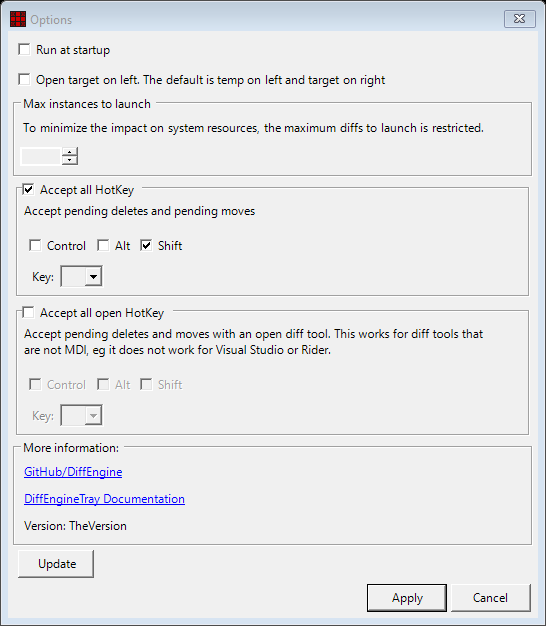
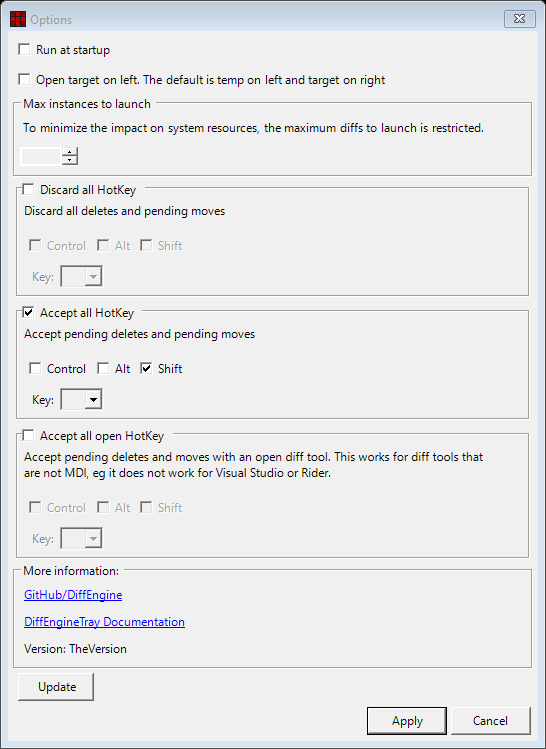
.

Changed region(s): [[0.0, 0.0, 1.0, 0.9409], [0.0311, 0.9409, 0.9963, 1.0], [0.9652, 0.2428, 0.9963, 0.2732]]

diff --git a/src/DiffEngineTray/Settings/OptionsForm.Designer.cs b/src/DiffEngineTray/Settings/OptionsForm.Designer.cs
@@ -8,6 +8,7 @@
         {
             components.Dispose();
         }
+
         base.Dispose(disposing);
     }
 
@@ -17,6 +18,7 @@
             this.cancel = new System.Windows.Forms.Button();
             this.save = new System.Windows.Forms.Button();
             this.acceptAllHotKey = new HotKeyControl();
+            this.discardAllHotKey = new HotKeyControl();
             this.startupCheckBox = new System.Windows.Forms.CheckBox();
             this.groupBox1 = new System.Windows.Forms.GroupBox();
             this.versionLabel = new System.Windows.Forms.Label();
@@ -43,17 +45,17 @@
             this.bottomPanel.Controls.Add(this.save);
             this.bottomPanel.Dock = System.Windows.Forms.DockStyle.Bottom;
             this.bottomPanel.FlowDirection = System.Windows.Forms.FlowDirection.RightToLeft;
-            this.bottomPanel.Location = new System.Drawing.Point(5, 508);
+            this.bottomPanel.Location = new System.Drawing.Point(5, 639);
             this.bottomPanel.Margin = new System.Windows.Forms.Padding(2);
             this.bottomPanel.Name = "bottomPanel";
-            this.bottomPanel.Size = new System.Drawing.Size(507, 29);
+            this.bottomPanel.Size = new System.Drawing.Size(520, 29);
             this.bottomPanel.TabIndex = 1;
             // 
             // cancel
             // 
             this.cancel.AutoSize = true;
             this.cancel.DialogResult = System.Windows.Forms.DialogResult.Cancel;
-            this.cancel.Location = new System.Drawing.Point(425, 2);
+            this.cancel.Location = new System.Drawing.Point(438, 2);
             this.cancel.Margin = new System.Windows.Forms.Padding(2);
             this.cancel.Name = "cancel";
             this.cancel.RightToLeft = System.Windows.Forms.RightToLeft.Yes;
@@ -65,7 +67,7 @@
             // save
             // 
             this.save.AutoSize = true;
-            this.save.Location = new System.Drawing.Point(341, 2);
+            this.save.Location = new System.Drawing.Point(354, 2);
             this.save.Margin = new System.Windows.Forms.Padding(2);
             this.save.Name = "save";
             this.save.Size = new System.Drawing.Size(80, 25);
@@ -81,13 +83,28 @@
             this.acceptAllHotKey.Help = "Accept pending deletes and pending moves";
             this.acceptAllHotKey.HotKey = null;
             this.acceptAllHotKey.Label = "Accept all HotKey";
-            this.acceptAllHotKey.Location = new System.Drawing.Point(5, 140);
+            this.acceptAllHotKey.Location = new System.Drawing.Point(5, 254);
             this.acceptAllHotKey.Margin = new System.Windows.Forms.Padding(2);
             this.acceptAllHotKey.Name = "acceptAllHotKey";
             this.acceptAllHotKey.Padding = new System.Windows.Forms.Padding(3);
-            this.acceptAllHotKey.Size = new System.Drawing.Size(507, 114);
+            this.acceptAllHotKey.Size = new System.Drawing.Size(520, 114);
             this.acceptAllHotKey.TabIndex = 2;
             this.acceptAllHotKey.TabStop = false;
+            // 
+            // discardAllHotKey
+            // 
+            this.discardAllHotKey.AutoSize = true;
+            this.discardAllHotKey.Dock = System.Windows.Forms.DockStyle.Top;
+            this.discardAllHotKey.Help = "Discard all deletes and pending moves";
+            this.discardAllHotKey.HotKey = null;
+            this.discardAllHotKey.Label = "Discard all HotKey";
+            this.discardAllHotKey.Location = new System.Drawing.Point(5, 140);
+            this.discardAllHotKey.Margin = new System.Windows.Forms.Padding(2);
+            this.discardAllHotKey.Name = "discardAllHotKey";
+            this.discardAllHotKey.Padding = new System.Windows.Forms.Padding(3);
+            this.discardAllHotKey.Size = new System.Drawing.Size(520, 114);
+            this.discardAllHotKey.TabIndex = 2;
+            this.discardAllHotKey.TabStop = false;
             // 
             // startupCheckBox
             // 
@@ -97,7 +114,7 @@
             this.startupCheckBox.Margin = new System.Windows.Forms.Padding(2);
             this.startupCheckBox.Name = "startupCheckBox";
             this.startupCheckBox.Padding = new System.Windows.Forms.Padding(5, 4, 5, 4);
-            this.startupCheckBox.Size = new System.Drawing.Size(507, 27);
+            this.startupCheckBox.Size = new System.Drawing.Size(520, 27);
             this.startupCheckBox.TabIndex = 3;
             this.startupCheckBox.Text = "Run at startup";
             this.startupCheckBox.UseVisualStyleBackColor = true;
@@ -109,10 +126,10 @@
             this.groupBox1.Controls.Add(this.trayDocsLink);
             this.groupBox1.Controls.Add(this.diffEngineLink);
             this.groupBox1.Dock = System.Windows.Forms.DockStyle.Top;
-            this.groupBox1.Location = new System.Drawing.Point(5, 398);
+            this.groupBox1.Location = new System.Drawing.Point(5, 497);
             this.groupBox1.Name = "groupBox1";
             this.groupBox1.Padding = new System.Windows.Forms.Padding(6, 5, 6, 5);
-            this.groupBox1.Size = new System.Drawing.Size(507, 89);
+            this.groupBox1.Size = new System.Drawing.Size(520, 89);
             this.groupBox1.TabIndex = 5;
             this.groupBox1.TabStop = false;
             this.groupBox1.Text = "More information:";
@@ -162,11 +179,11 @@
     "s that are not MDI, eg it does not work for Visual Studio or Rider.";
             this.acceptOpenHotKey.HotKey = null;
             this.acceptOpenHotKey.Label = "Accept all open HotKey";
-            this.acceptOpenHotKey.Location = new System.Drawing.Point(5, 254);
+            this.acceptOpenHotKey.Location = new System.Drawing.Point(5, 368);
             this.acceptOpenHotKey.Margin = new System.Windows.Forms.Padding(2);
             this.acceptOpenHotKey.Name = "acceptOpenHotKey";
             this.acceptOpenHotKey.Padding = new System.Windows.Forms.Padding(3);
-            this.acceptOpenHotKey.Size = new System.Drawing.Size(507, 144);
+            this.acceptOpenHotKey.Size = new System.Drawing.Size(520, 129);
             this.acceptOpenHotKey.TabIndex = 6;
             this.acceptOpenHotKey.TabStop = false;
             // 
@@ -175,11 +192,11 @@
             this.flowLayoutPanel1.AutoSize = true;
             this.flowLayoutPanel1.Controls.Add(this.updateButton);
             this.flowLayoutPanel1.Dock = System.Windows.Forms.DockStyle.Top;
-            this.flowLayoutPanel1.Location = new System.Drawing.Point(5, 487);
+            this.flowLayoutPanel1.Location = new System.Drawing.Point(5, 586);
             this.flowLayoutPanel1.Margin = new System.Windows.Forms.Padding(2);
             this.flowLayoutPanel1.Name = "flowLayoutPanel1";
             this.flowLayoutPanel1.Padding = new System.Windows.Forms.Padding(3, 2, 3, 2);
-            this.flowLayoutPanel1.Size = new System.Drawing.Size(507, 33);
+            this.flowLayoutPanel1.Size = new System.Drawing.Size(520, 33);
             this.flowLayoutPanel1.TabIndex = 7;
             // 
             // updateButton
@@ -202,7 +219,7 @@
             this.targetOnLeftCheckBox.Margin = new System.Windows.Forms.Padding(2);
             this.targetOnLeftCheckBox.Name = "targetOnLeftCheckBox";
             this.targetOnLeftCheckBox.Padding = new System.Windows.Forms.Padding(5, 4, 5, 4);
-            this.targetOnLeftCheckBox.Size = new System.Drawing.Size(507, 27);
+            this.targetOnLeftCheckBox.Size = new System.Drawing.Size(520, 27);
             this.targetOnLeftCheckBox.TabIndex = 8;
             this.targetOnLeftCheckBox.Text = "Open target on left. The default is temp on left and target on right";
             this.targetOnLeftCheckBox.UseVisualStyleBackColor = true;
@@ -215,7 +232,7 @@
             this.maxInstancesGroupBox.Location = new System.Drawing.Point(5, 58);
             this.maxInstancesGroupBox.Name = "maxInstancesGroupBox";
             this.maxInstancesGroupBox.Padding = new System.Windows.Forms.Padding(5);
-            this.maxInstancesGroupBox.Size = new System.Drawing.Size(507, 82);
+            this.maxInstancesGroupBox.Size = new System.Drawing.Size(520, 82);
             this.maxInstancesGroupBox.TabIndex = 9;
             this.maxInstancesGroupBox.TabStop = false;
             this.maxInstancesGroupBox.Text = "Max instances to launch";
@@ -258,12 +275,13 @@
             this.AutoScaleMode = System.Windows.Forms.AutoScaleMode.Font;
             this.AutoSize = true;
             this.CancelButton = this.cancel;
-            this.ClientSize = new System.Drawing.Size(530, 541);
+            this.ClientSize = new System.Drawing.Size(530, 672);
             this.Controls.Add(this.flowLayoutPanel1);
             this.Controls.Add(this.groupBox1);
             this.Controls.Add(this.bottomPanel);
             this.Controls.Add(this.acceptOpenHotKey);
             this.Controls.Add(this.acceptAllHotKey);
+            this.Controls.Add(this.discardAllHotKey);
             this.Controls.Add(this.maxInstancesGroupBox);
             this.Controls.Add(this.targetOnLeftCheckBox);
             this.Controls.Add(this.startupCheckBox);
@@ -289,10 +307,12 @@
             this.PerformLayout();
 
     }
+
     private System.Windows.Forms.FlowLayoutPanel bottomPanel;
     private System.Windows.Forms.Button cancel;
     private System.Windows.Forms.Button save;
-    private HotKeyControl acceptAllHotKey;
+    private HotKeyControl acceptAllHotKey; 
+    private HotKeyControl discardAllHotKey;
     private System.Windows.Forms.CheckBox startupCheckBox;
     private System.Windows.Forms.GroupBox groupBox1;
     private System.Windows.Forms.LinkLabel diffEngineLink;

diff --git a/src/DiffEngineTray/Settings/OptionsForm.cs b/src/DiffEngineTray/Settings/OptionsForm.cs
@@ -18,6 +18,7 @@ public partial class OptionsForm :
         this.trySave = trySave;
         acceptAllHotKey.HotKey = settings.AcceptAllHotKey;
         acceptOpenHotKey.HotKey = settings.AcceptOpenHotKey;
+        discardAllHotKey.HotKey = settings.DiscardAllHotKey;
         startupCheckBox.Checked = settings.RunAtStartup;
         targetOnLeftCheckBox.Checked = settings.TargetOnLeft;
         maxInstancesNumericUpDown.Value = settings.MaxInstancesToLaunch;
@@ -30,6 +31,7 @@ public partial class OptionsForm :
             TargetOnLeft = targetOnLeftCheckBox.Checked,
             RunAtStartup = startupCheckBox.Checked,
             AcceptAllHotKey = acceptAllHotKey.HotKey,
+            DiscardAllHotKey = discardAllHotKey.HotKey,
             AcceptOpenHotKey = acceptOpenHotKey.HotKey,
             MaxInstancesToLaunch = (int)maxInstancesNumericUpDown.Value
         };

diff --git a/src/DiffEngineTray/Program.cs b/src/DiffEngineTray/Program.cs
@@ -67,6 +67,18 @@ static class Program
 
     static void ReBindKeys(Settings settings, KeyRegister keyRegister, Tracker tracker)
     {
+        var discardAllHotKey = settings.DiscardAllHotKey;
+        if (discardAllHotKey != null)
+        {
+            keyRegister.TryAddBinding(
+                KeyBindingIds.DiscardAll,
+                discardAllHotKey.Shift,
+                discardAllHotKey.Control,
+                discardAllHotKey.Alt,
+                discardAllHotKey.Key,
+                tracker.Clear);
+        }
+
         var acceptAllHotKey = settings.AcceptAllHotKey;
         if (acceptAllHotKey != null)
         {

diff --git a/src/DiffEngineTray/Settings/OptionsFormLauncher.cs b/src/DiffEngineTray/Settings/OptionsFormLauncher.cs
@@ -33,6 +33,7 @@ static class OptionsFormLauncher
         var saveErrors = new List<string>();
 
         AddHotKey(keyRegister, settings.AcceptAllHotKey, KeyBindingIds.AcceptAll, tracker.AcceptAll, saveErrors);
+        AddHotKey(keyRegister, settings.DiscardAllHotKey, KeyBindingIds.DiscardAll, tracker.Clear, saveErrors);
         AddHotKey(keyRegister, settings.AcceptOpenHotKey, KeyBindingIds.AcceptOpen, tracker.AcceptOpen, saveErrors);
 
         if (saveErrors.Any())

diff --git a/src/DiffEngineTray/Settings/SettingsValidator.cs b/src/DiffEngineTray/Settings/SettingsValidator.cs
@@ -5,6 +5,7 @@ public static class SettingsValidator
         errors = new();
 
         ValidateHotKey(errors, settings.AcceptAllHotKey);
+        ValidateHotKey(errors, settings.DiscardAllHotKey);
         ValidateHotKey(errors, settings.AcceptOpenHotKey);
 
         return !errors.Any();

diff --git a/src/DiffEngineTray/Settings/Settings.cs b/src/DiffEngineTray/Settings/Settings.cs
@@ -1,6 +1,7 @@
 public class Settings
 {
     public HotKey? AcceptAllHotKey { get; set; }
+    public HotKey? DiscardAllHotKey { get; set; }
     public HotKey? AcceptOpenHotKey { get; set; }
     public bool RunAtStartup { get; set; }
     public bool TargetOnLeft { get; set; }

diff --git a/src/DiffEngineTray/HotKey/KeyBindingIds.cs b/src/DiffEngineTray/HotKey/KeyBindingIds.cs
@@ -2,4 +2,5 @@ static class KeyBindingIds
 {
     public static int AcceptAll = 1;
     public static int AcceptOpen = 2;
+    public static int DiscardAll = 3;
 }
